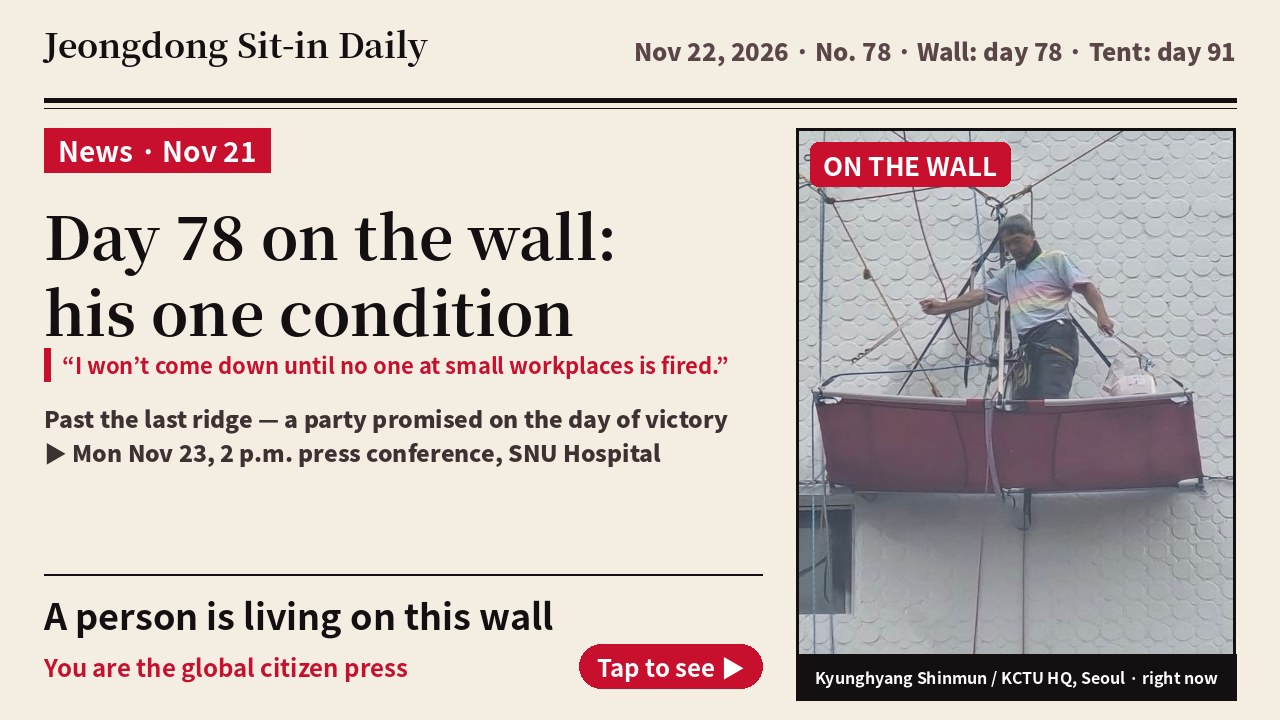
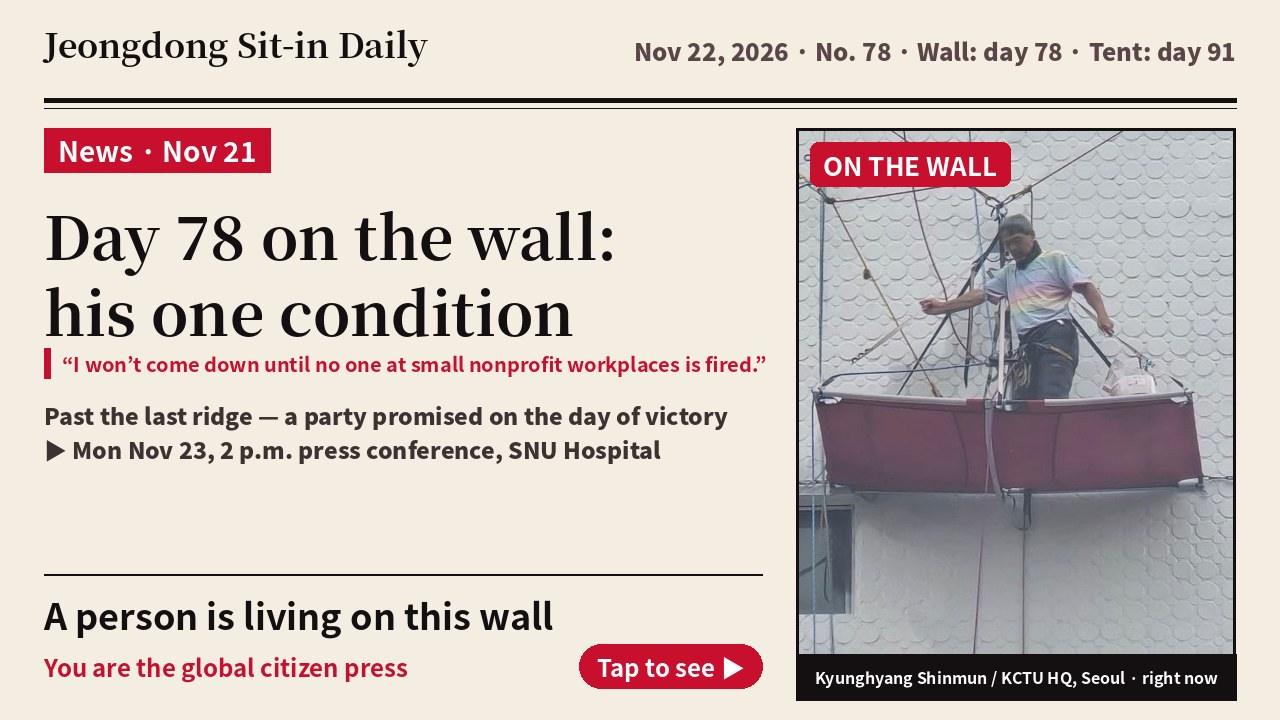
11.21 일지 한국어 보강 재반영, '비영리 5인 미만'으로 수정, 썸네일 재생성
Claude-Session: https://claude.ai/code/session_01Tz8GkWvPmrVzZC7uufwenE

Changed region(s): [[0.0312, 0.55, 0.5625, 0.6417], [0.0312, 0.4889, 0.5938, 0.5194]]

diff --git a/index.html b/index.html
@@ -2,15 +2,15 @@
 <html lang="ko"><head><meta charset="utf-8">
 <title>이 건물 외벽에 사람이 있습니다 | 정동 고공 외줄 밧줄농성</title>
 <meta name="viewport" content="width=device-width,initial-scale=1,viewport-fit=cover">
-<meta name="description" content="[11.22 소식] (11.21) 오후 2시 여의도 국회의사당 앞 ‘일제강제동원 피해자 문제 해결 촉구 100만인 서명운동’ 공대위 연대(김ㅇㅇ, 전태삼, 송ㅇㅇ, 함계남) / 외벽 고공농성 밥올림(이ㅇㅇ, 류승완) / 저녁 7시 정기모임(이ㅇㅇ, 송ㅇㅇ, 전태삼, 김ㅇㅇ, 함계남, 이ㅇㅇ, 김ㅇㅇ): 모임 전 인천 계양구에서 투쟁 중인 김ㅇㅇ·임ㅇㅇ 부부(윤석열 퇴진 촛불 이후 공대위 문화제에 함께해 온 분들)가 찾아와 투쟁 상황을 나누고 소형 충전등 3개, 손난로 20개, 피켓 9장, 깃발과 깃대를 기증해 주셨습니다 / 23일 서울대병원 기자회견 준비: 사회 유상석, 참석자 모두 발언, 현수막·피켓·전단지·앰프 준비 / 교섭 대응: 외벽의 양규서 동지는 “민주노총에서 5인 미만 사업장에 대해 해고하는 일이 없도록 반드시 합의해야 내려올 수 있다”고 밝혔습니다. 기자회견 뒤 교섭 대응과 투쟁 계획을 다시 논의합니다 / 겨울로 들어선 날씨, 이제 8부 능선을 넘었습니다. 가장 적은 인원으로 가장 센 힘을 지닌 우리가 이기지 못할 이유가 없습니다. 첫발을 내딛는 신입 조합원의 눈으로, ‘적어도 민주노총이 이래서는 안 된다’는 시민의 눈으로 한 걸음 더 내딛습니다. 승리하고 내려오는 날, 장수회관 할머니가 파티를 열어 주신다고 합니다. / 특종: 집단사직 종용 녹취록 공개 · 여러분이 글로벌 시민 언론사입니다">
+<meta name="description" content="[11.22 소식] (11.21) 오후 2시 여의도 국회의사당 앞 ‘일제강제동원 피해자 문제 해결 촉구 100만인 서명운동’ 공대위 연대(김ㅇㅇ, 전태삼, 송ㅇㅇ, 함계남) / 외벽 고공농성 밥올림(이ㅇㅇ, 류승완) / 저녁 7시 정기모임(이ㅇㅇ, 송ㅇㅇ, 전태삼, 김ㅇㅇ, 함계남, 이ㅇㅇ, 김ㅇㅇ): 모임 전 인천 계양구에서 투쟁 중인 김ㅇㅇ·임ㅇㅇ 부부(윤석열 퇴진 촛불 이후 공대위 문화제에 함께해 온 분들)가 찾아와 투쟁 상황을 나누고 소형 충전등 3개, 손난로 20개, 피켓 9장, 깃발(소 2장·대 1장)과 깃대를 기증해 주셨습니다 / 안건 1. 23일 서울대병원 기자회견: 사회 유상석, 참석자 모두 발언. 현수막·피켓·전단지·앰프를 준비하고, 회견 뒤 기자회견문과 언론 보도 내용을 정리합니다. 현재 참석 확인 8명(유상석, 함계남, 전태삼 외 5명) / 안건 2. 교섭 대응: 교섭에서는 허를 찌르는 발언과 ‘절대 물러서지 않겠구나’ 하는 강한 느낌을 줘야 한다는 데 뜻을 모았습니다. 외벽의 양규서 동지는 “민주노총에서 비영리 5인 미만 사업장에 대해 해고하는 일이 없도록 반드시 합의해야 내려올 수 있다”고 밝혔습니다. 월요일 기자회견 뒤 교섭 대응과 투쟁 계획·일정을 다시 논의합니다 / 겨울로 들어선 날씨입니다. 조합원들과 투쟁하다 모두 힘들어할 때면 “8부 능선을 올랐으니 조금만 더 가서 정상에서 좋은 경치 보고 내려가자”며 분위기를 바꾸던 기억이 납니다. 가장 적은 인원으로 가장 센 힘을 지닌 우리가 이기지 못할 이유가 무엇이겠습니까. 세상을 바꾸려 첫발을 내딛는 신입 조합원의 눈으로, ‘적어도 민주노총이 이래서는 안 된다’는 시민의 눈으로 한 걸음을 내디뎌야 할 때입니다. 승리하고 내려오는 날, 장수회관 할머니가 파티를 열어 주신다고 합니다. — 11월 21일 천막농성장에서 / 특종: 집단사직 종용 녹취록 공개 · 여러분이 글로벌 시민 언론사입니다">
 <meta property="og:type" content="website">
 <meta property="og:site_name" content="정동 고공 외줄 밧줄농성">
 <meta property="og:title" content="이 건물 외벽에 사람이 있습니다 | 정동 고공 외줄 밧줄농성">
-<meta property="og:description" content="[11.22 소식] (11.21) 오후 2시 여의도 국회의사당 앞 ‘일제강제동원 피해자 문제 해결 촉구 100만인 서명운동’ 공대위 연대(김ㅇㅇ, 전태삼, 송ㅇㅇ, 함계남) / 외벽 고공농성 밥올림(이ㅇㅇ, 류승완) / 저녁 7시 정기모임(이ㅇㅇ, 송ㅇㅇ, 전태삼, 김ㅇㅇ, 함계남, 이ㅇㅇ, 김ㅇㅇ): 모임 전 인천 계양구에서 투쟁 중인 김ㅇㅇ·임ㅇㅇ 부부(윤석열 퇴진 촛불 이후 공대위 문화제에 함께해 온 분들)가 찾아와 투쟁 상황을 나누고 소형 충전등 3개, 손난로 20개, 피켓 9장, 깃발과 깃대를 기증해 주셨습니다 / 23일 서울대병원 기자회견 준비: 사회 유상석, 참석자 모두 발언, 현수막·피켓·전단지·앰프 준비 / 교섭 대응: 외벽의 양규서 동지는 “민주노총에서 5인 미만 사업장에 대해 해고하는 일이 없도록 반드시 합의해야 내려올 수 있다”고 밝혔습니다. 기자회견 뒤 교섭 대응과 투쟁 계획을 다시 논의합니다 / 겨울로 들어선 날씨, 이제 8부 능선을 넘었습니다. 가장 적은 인원으로 가장 센 힘을 지닌 우리가 이기지 못할 이유가 없습니다. 첫발을 내딛는 신입 조합원의 눈으로, ‘적어도 민주노총이 이래서는 안 된다’는 시민의 눈으로 한 걸음 더 내딛습니다. 승리하고 내려오는 날, 장수회관 할머니가 파티를 열어 주신다고 합니다. / 특종: 집단사직 종용 녹취록 공개 · 여러분이 글로벌 시민 언론사입니다">
-<meta property="og:image" content="https://yky1234x.github.io/jeongdong/share.jpg?v=202611221850">
+<meta property="og:description" content="[11.22 소식] (11.21) 오후 2시 여의도 국회의사당 앞 ‘일제강제동원 피해자 문제 해결 촉구 100만인 서명운동’ 공대위 연대(김ㅇㅇ, 전태삼, 송ㅇㅇ, 함계남) / 외벽 고공농성 밥올림(이ㅇㅇ, 류승완) / 저녁 7시 정기모임(이ㅇㅇ, 송ㅇㅇ, 전태삼, 김ㅇㅇ, 함계남, 이ㅇㅇ, 김ㅇㅇ): 모임 전 인천 계양구에서 투쟁 중인 김ㅇㅇ·임ㅇㅇ 부부(윤석열 퇴진 촛불 이후 공대위 문화제에 함께해 온 분들)가 찾아와 투쟁 상황을 나누고 소형 충전등 3개, 손난로 20개, 피켓 9장, 깃발(소 2장·대 1장)과 깃대를 기증해 주셨습니다 / 안건 1. 23일 서울대병원 기자회견: 사회 유상석, 참석자 모두 발언. 현수막·피켓·전단지·앰프를 준비하고, 회견 뒤 기자회견문과 언론 보도 내용을 정리합니다. 현재 참석 확인 8명(유상석, 함계남, 전태삼 외 5명) / 안건 2. 교섭 대응: 교섭에서는 허를 찌르는 발언과 ‘절대 물러서지 않겠구나’ 하는 강한 느낌을 줘야 한다는 데 뜻을 모았습니다. 외벽의 양규서 동지는 “민주노총에서 비영리 5인 미만 사업장에 대해 해고하는 일이 없도록 반드시 합의해야 내려올 수 있다”고 밝혔습니다. 월요일 기자회견 뒤 교섭 대응과 투쟁 계획·일정을 다시 논의합니다 / 겨울로 들어선 날씨입니다. 조합원들과 투쟁하다 모두 힘들어할 때면 “8부 능선을 올랐으니 조금만 더 가서 정상에서 좋은 경치 보고 내려가자”며 분위기를 바꾸던 기억이 납니다. 가장 적은 인원으로 가장 센 힘을 지닌 우리가 이기지 못할 이유가 무엇이겠습니까. 세상을 바꾸려 첫발을 내딛는 신입 조합원의 눈으로, ‘적어도 민주노총이 이래서는 안 된다’는 시민의 눈으로 한 걸음을 내디뎌야 할 때입니다. 승리하고 내려오는 날, 장수회관 할머니가 파티를 열어 주신다고 합니다. — 11월 21일 천막농성장에서 / 특종: 집단사직 종용 녹취록 공개 · 여러분이 글로벌 시민 언론사입니다">
+<meta property="og:image" content="https://yky1234x.github.io/jeongdong/share.jpg?v=202611221851">
 <meta property="og:image:width" content="1280"><meta property="og:image:height" content="720">
 <meta name="twitter:card" content="summary_large_image">
-<meta name="twitter:image" content="https://yky1234x.github.io/jeongdong/share.jpg?v=202611221850">
+<meta name="twitter:image" content="https://yky1234x.github.io/jeongdong/share.jpg?v=202611221851">
 <style>:root{color-scheme:light;padding-top:env(safe-area-inset-top,0px);padding-bottom:env(safe-area-inset-bottom,0px)}body{margin:0;font-family:system-ui,-apple-system,"Apple SD Gothic Neo","Malgun Gothic",sans-serif;font-size:14px}img{max-width:100%}[hidden]{display:none!important}</style>
 </head><body>
 <link rel="preconnect" href="https://fonts.googleapis.com">
@@ -195,7 +195,7 @@ footer strong{color:var(--fg);display:block;font-size:15px}
 <header class="band">
   <div class="wrap">
     <div class="loc" id="loc">서울 정동 경향신문사 외벽 고공 외줄 밧줄농성</div>
-    <div class="upd" data-upd>최종 업데이트 2026. 11. 22. 18:55</div>
+    <div class="upd" data-upd>최종 업데이트 2026. 11. 22. 19:00</div>
     <div class="langs" role="group" aria-label="Language">
       <button type="button" id="b-ko" data-l="ko" aria-pressed="true">한국어</button>
       <button type="button" id="b-en" data-l="en" aria-pressed="false">English</button>
@@ -341,7 +341,7 @@ footer strong{color:var(--fg);display:block;font-size:15px}
   }
   // 투쟁 일지: add one entry per event {d:"YYYY-MM-DD", ko, en, zh}
   var LOG=[
-    {d:"2026-11-21",ko:"오후 2시 여의도 국회의사당 앞 ‘일제강제동원 피해자 문제 해결 촉구 100만인 서명운동’ 공대위 연대(김ㅇㅇ, 전태삼, 송ㅇㅇ, 함계남) / 외벽 고공농성 밥올림(이ㅇㅇ, 류승완) / 저녁 7시 정기모임(이ㅇㅇ, 송ㅇㅇ, 전태삼, 김ㅇㅇ, 함계남, 이ㅇㅇ, 김ㅇㅇ): 모임 전 인천 계양구에서 투쟁 중인 김ㅇㅇ·임ㅇㅇ 부부(윤석열 퇴진 촛불 이후 공대위 문화제에 함께해 온 분들)가 찾아와 투쟁 상황을 나누고 소형 충전등 3개, 손난로 20개, 피켓 9장, 깃발과 깃대를 기증해 주셨습니다 / 23일 서울대병원 기자회견 준비: 사회 유상석, 참석자 모두 발언, 현수막·피켓·전단지·앰프 준비 / 교섭 대응: 외벽의 양규서 동지는 “민주노총에서 5인 미만 사업장에 대해 해고하는 일이 없도록 반드시 합의해야 내려올 수 있다”고 밝혔습니다. 기자회견 뒤 교섭 대응과 투쟁 계획을 다시 논의합니다 / 겨울로 들어선 날씨, 이제 8부 능선을 넘었습니다. 가장 적은 인원으로 가장 센 힘을 지닌 우리가 이기지 못할 이유가 없습니다. 첫발을 내딛는 신입 조합원의 눈으로, ‘적어도 민주노총이 이래서는 안 된다’는 시민의 눈으로 한 걸음 더 내딛습니다. 승리하고 내려오는 날, 장수회관 할머니가 파티를 열어 주신다고 합니다.",en:"2 p.m. joint-committee solidarity with the million-signature campaign to resolve the issue of victims of Japanese forced mobilization, in front of the National Assembly, Yeouido (Kim OO, Jeon Tae-sam, Song OO, Ham Gye-nam) / Meals sent up to the wall sit-in (Lee OO, Ryu Seung-wan) / 7 p.m. regular meeting (seven members): before the meeting, Kim OO and Lim OO, a couple waging their own struggle in Gyeyang-gu, Incheon, who have joined the joint committee’s cultural rallies since the candlelight protests, shared their situation and donated 3 small rechargeable lights, 20 hand warmers, 9 pickets, three flags (two small, one large) and a pole / Item 1, Monday’s press conference at Seoul National University Hospital: Yoo Sang-seok will chair and every participant will speak. Banners, pickets, leaflets and an amplifier are ready; afterwards we will compile the statement and the press coverage. Eight people have confirmed so far (Yoo Sang-seok, Ham Gye-nam, Jeon Tae-sam and five others) / Item 2, negotiations: we agreed that at the table we must make pointed remarks that cut to the heart of the matter and leave no doubt that we will never back down. Yang Gyu-seo, on the wall, said, “I can come down only when the KCTU firmly agrees that no one at its workplaces with fewer than five employees will be dismissed.” Negotiation strategy, plans and schedule will be discussed again after Monday’s press conference / Winter has arrived. In past struggles, when members grew tired, I used to lift the mood by saying, “We have climbed past the last ridge; just a little further, and we can enjoy the view from the summit before we head down.” With the fewest people and the strongest resolve, what reason could there be that we cannot win? It is time to take the next step through the eyes of a new union member taking a first step to change the world, and of citizens who say the KCTU, at the very least, should not act like this. On the day we come down in victory, the grandmother at Jangsu Hall has promised to throw a party. — From the tent, November 21",zh:"下午2点 汝矣岛国会议事堂前，共同对策委员会声援“敦促解决日本强征劳工受害者问题百万人签名运动”（김ㅇㅇ、全泰三、송ㅇㅇ、Ham Gye-nam） / 为外墙高空静坐送饭（이ㅇㅇ、柳承完） / 晚上7点例会（7人参加）：会前，在仁川桂阳区进行抗争、自烛光集会以来一直参加共同对策委员会文化祭的김ㅇㅇ、임ㅇㅇ夫妇前来分享抗争情况，并捐赠小型充电灯3个、暖手宝20个、标语牌9块、旗帜3面（小2面、大1面）和旗杆 / 议题1：23日首尔大学医院记者会，由유상석（Yoo Sang-seok）主持，所有参加者发言；准备横幅、标语牌、传单和扩音器，会后整理记者会声明和媒体报道。目前确认参加8人（유상석、Ham Gye-nam、全泰三等） / 议题2：交涉应对。大家一致认为，交涉时要说出一针见血的话，让对方强烈感到“我们绝不会退让”。外墙上的Yang Gyu-seo同志表示：“只有民主劳总明确承诺，其5人以下单位不再解雇任何人，我才能下来。”周一记者会后将重新讨论交涉应对、斗争计划和日程 / 天气已进入冬天。想起过去和会员们一起斗争、大家疲惫时，我常说“已经爬过八成山脊，再走一点就能登顶看美景再下山”，以此转换气氛。人数最少、力量最强的我们，有什么理由赢不了？现在是时候用想要改变世界、迈出第一步的新会员的眼光，用“民主劳总至少不该这样”的市民的眼光，迈出一步了。胜利下来的那天，长寿会馆的奶奶说要为我们开派对。——11月21日，于帐篷静坐现场",plan:{ko:"▶ 11.23(월) 오후 2시 서울대병원(혜화역 3번 출구, 1시 30분 집결) ‘사용자 민주노총 공공운수노조 의료연대본부 서울지부 규탄 기자회견’ — 사회 유상석, 참석자 모두 발언",en:"▶ Mon, Nov 23: 2 p.m. press conference at Seoul National University Hospital (Hyehwa Station exit 3; gather at 1:30 p.m.) denouncing the employer, the Seoul branch of the KPTU Medical Solidarity Division (KCTU) — chaired by Yoo Sang-seok, with every participant speaking",zh:"▶ 11月23日（周一）下午2点 首尔大学医院（惠化站3号出口，1点30分集合）“谴责雇主——民主劳总公共运输工会医疗联带本部首尔支部”记者会——由유상석（Yoo Sang-seok）主持，所有参加者发言"},imgs:[["log_1121_1.jpg", {ko: "비닐로 감싼 천막농성장과 천막농성 91일·고공농성 78일 일수판(22일 아침)", en: "The plastic-wrapped tent and day board: tent 91, wall 78 (morning of Nov 22)", zh: "包着塑料布的帐篷与天数牌：帐篷91天、高空78天（22日早晨）"}], ["log_1121_2.jpg", {ko: "여의도 국회의사당 앞 연대 집회 현장", en: "The solidarity rally in front of the National Assembly, Yeouido", zh: "汝矣岛国会议事堂前的声援集会现场"}], ["log_1121_3.jpg", {ko: "천막농성장에서 ‘집단사직종용 해고는 살인이다’ 피켓을 든 모습", en: "In the tent, holding the picket “Dismissal by collective pressure to resign is murder”", zh: "在帐篷里举着“集体逼辞的解雇就是杀人”标语牌"}]]},
+    {d:"2026-11-21",ko:"오후 2시 여의도 국회의사당 앞 ‘일제강제동원 피해자 문제 해결 촉구 100만인 서명운동’ 공대위 연대(김ㅇㅇ, 전태삼, 송ㅇㅇ, 함계남) / 외벽 고공농성 밥올림(이ㅇㅇ, 류승완) / 저녁 7시 정기모임(이ㅇㅇ, 송ㅇㅇ, 전태삼, 김ㅇㅇ, 함계남, 이ㅇㅇ, 김ㅇㅇ): 모임 전 인천 계양구에서 투쟁 중인 김ㅇㅇ·임ㅇㅇ 부부(윤석열 퇴진 촛불 이후 공대위 문화제에 함께해 온 분들)가 찾아와 투쟁 상황을 나누고 소형 충전등 3개, 손난로 20개, 피켓 9장, 깃발(소 2장·대 1장)과 깃대를 기증해 주셨습니다 / 안건 1. 23일 서울대병원 기자회견: 사회 유상석, 참석자 모두 발언. 현수막·피켓·전단지·앰프를 준비하고, 회견 뒤 기자회견문과 언론 보도 내용을 정리합니다. 현재 참석 확인 8명(유상석, 함계남, 전태삼 외 5명) / 안건 2. 교섭 대응: 교섭에서는 허를 찌르는 발언과 ‘절대 물러서지 않겠구나’ 하는 강한 느낌을 줘야 한다는 데 뜻을 모았습니다. 외벽의 양규서 동지는 “민주노총에서 비영리 5인 미만 사업장에 대해 해고하는 일이 없도록 반드시 합의해야 내려올 수 있다”고 밝혔습니다. 월요일 기자회견 뒤 교섭 대응과 투쟁 계획·일정을 다시 논의합니다 / 겨울로 들어선 날씨입니다. 조합원들과 투쟁하다 모두 힘들어할 때면 “8부 능선을 올랐으니 조금만 더 가서 정상에서 좋은 경치 보고 내려가자”며 분위기를 바꾸던 기억이 납니다. 가장 적은 인원으로 가장 센 힘을 지닌 우리가 이기지 못할 이유가 무엇이겠습니까. 세상을 바꾸려 첫발을 내딛는 신입 조합원의 눈으로, ‘적어도 민주노총이 이래서는 안 된다’는 시민의 눈으로 한 걸음을 내디뎌야 할 때입니다. 승리하고 내려오는 날, 장수회관 할머니가 파티를 열어 주신다고 합니다. — 11월 21일 천막농성장에서",en:"2 p.m. joint-committee solidarity with the million-signature campaign to resolve the issue of victims of Japanese forced mobilization, in front of the National Assembly, Yeouido (Kim OO, Jeon Tae-sam, Song OO, Ham Gye-nam) / Meals sent up to the wall sit-in (Lee OO, Ryu Seung-wan) / 7 p.m. regular meeting (seven members): before the meeting, Kim OO and Lim OO, a couple waging their own struggle in Gyeyang-gu, Incheon, who have joined the joint committee’s cultural rallies since the candlelight protests, shared their situation and donated 3 small rechargeable lights, 20 hand warmers, 9 pickets, three flags (two small, one large) and a pole / Item 1, Monday’s press conference at Seoul National University Hospital: Yoo Sang-seok will chair and every participant will speak. Banners, pickets, leaflets and an amplifier are ready; afterwards we will compile the statement and the press coverage. Eight people have confirmed so far (Yoo Sang-seok, Ham Gye-nam, Jeon Tae-sam and five others) / Item 2, negotiations: we agreed that at the table we must make pointed remarks that cut to the heart of the matter and leave no doubt that we will never back down. Yang Gyu-seo, on the wall, said, “I can come down only when the KCTU firmly agrees that no one at its nonprofit workplaces with fewer than five employees will be dismissed.” Negotiation strategy, plans and schedule will be discussed again after Monday’s press conference / Winter has arrived. In past struggles, when members grew tired, I used to lift the mood by saying, “We have climbed past the last ridge; just a little further, and we can enjoy the view from the summit before we head down.” With the fewest people and the strongest resolve, what reason could there be that we cannot win? It is time to take the next step through the eyes of a new union member taking a first step to change the world, and of citizens who say the KCTU, at the very least, should not act like this. On the day we come down in victory, the grandmother at Jangsu Hall has promised to throw a party. — From the tent, November 21",zh:"下午2点 汝矣岛国会议事堂前，共同对策委员会声援“敦促解决日本强征劳工受害者问题百万人签名运动”（김ㅇㅇ、全泰三、송ㅇㅇ、Ham Gye-nam） / 为外墙高空静坐送饭（이ㅇㅇ、柳承完） / 晚上7点例会（7人参加）：会前，在仁川桂阳区进行抗争、自烛光集会以来一直参加共同对策委员会文化祭的김ㅇㅇ、임ㅇㅇ夫妇前来分享抗争情况，并捐赠小型充电灯3个、暖手宝20个、标语牌9块、旗帜3面（小2面、大1面）和旗杆 / 议题1：23日首尔大学医院记者会，由유상석（Yoo Sang-seok）主持，所有参加者发言；准备横幅、标语牌、传单和扩音器，会后整理记者会声明和媒体报道。目前确认参加8人（유상석、Ham Gye-nam、全泰三等） / 议题2：交涉应对。大家一致认为，交涉时要说出一针见血的话，让对方强烈感到“我们绝不会退让”。外墙上的Yang Gyu-seo同志表示：“只有民主劳总明确承诺，其非营利5人以下单位不再解雇任何人，我才能下来。”周一记者会后将重新讨论交涉应对、斗争计划和日程 / 天气已进入冬天。想起过去和会员们一起斗争、大家疲惫时，我常说“已经爬过八成山脊，再走一点就能登顶看美景再下山”，以此转换气氛。人数最少、力量最强的我们，有什么理由赢不了？现在是时候用想要改变世界、迈出第一步的新会员的眼光，用“民主劳总至少不该这样”的市民的眼光，迈出一步了。胜利下来的那天，长寿会馆的奶奶说要为我们开派对。——11月21日，于帐篷静坐现场",plan:{ko:"▶ 11.23(월) 오후 2시 서울대병원(혜화역 3번 출구, 1시 30분 집결) ‘사용자 민주노총 공공운수노조 의료연대본부 서울지부 규탄 기자회견’ — 사회 유상석, 참석자 모두 발언",en:"▶ Mon, Nov 23: 2 p.m. press conference at Seoul National University Hospital (Hyehwa Station exit 3; gather at 1:30 p.m.) denouncing the employer, the Seoul branch of the KPTU Medical Solidarity Division (KCTU) — chaired by Yoo Sang-seok, with every participant speaking",zh:"▶ 11月23日（周一）下午2点 首尔大学医院（惠化站3号出口，1点30分集合）“谴责雇主——民主劳总公共运输工会医疗联带本部首尔支部”记者会——由유상석（Yoo Sang-seok）主持，所有参加者发言"},imgs:[["log_1121_1.jpg", {ko: "비닐로 감싼 천막농성장과 천막농성 91일·고공농성 78일 일수판(22일 아침)", en: "The plastic-wrapped tent and day board: tent 91, wall 78 (morning of Nov 22)", zh: "包着塑料布的帐篷与天数牌：帐篷91天、高空78天（22日早晨）"}], ["log_1121_2.jpg", {ko: "여의도 국회의사당 앞 연대 집회 현장", en: "The solidarity rally in front of the National Assembly, Yeouido", zh: "汝矣岛国会议事堂前的声援集会现场"}], ["log_1121_3.jpg", {ko: "천막농성장에서 ‘집단사직종용 해고는 살인이다’ 피켓을 든 모습", en: "In the tent, holding the picket “Dismissal by collective pressure to resign is murder”", zh: "在帐篷里举着“集体逼辞的解雇就是杀人”标语牌"}]]},
     {d:"2026-11-20",ko:"오전 8시 서울고용노동청 앞 연대(함계남) / 오전 11시 긴급 대책위 회의(류승완, 유상석, 김ㅇㅇ, 이ㅇㅇ, 함계남) / 11시 40분경 총연맹 대협실장에게서 ‘진상규명위원회 결과에 따라 후속조치를 협의한다’는 문구가 추가된 제안이 왔습니다 / 오후 2시 13층 면담(사측: 대협실장·조직실장, 공대위: 류승완 대표 등 5명): 모든 것을 내려놓고 진상규명위원회와 5인 미만 문제, 두 개의 합의안을 제시한 이유를 자료(산재 승인서, 직장 내 괴롭힘 진정 서류, 수당 지급요청 내용증명, 2019~2022 투쟁 사진 등)와 함께 설명했습니다. 사측은 5인 미만 문제는 진상규명위 조사를 거쳐 권고·조직 징계 등 후속조치로 하면 된다고 했습니다. 함계남 동지는 과거 규율위원회에 직장 내 괴롭힘을 진정했지만 아무 조치가 없었다고 지적했고, 류승완 대표는 노동조합 규칙에 따른 실효성 있는 조사와 후속조치 방안이 있는지 물었습니다. 이후 노동조합 규칙을 전달받았고, 함계남 동지는 면담 자료를 집행위원장과 비상대책위원장에게 공유해 달라고 요청했습니다 / 바람 불고 추운 오늘도 천막에 와서 할 일을 찾아 주신 동지들, 모두 애쓰셨습니다.",img:"log_1120_1.jpg",ia:{ko:"비닐로 감싸고 끈으로 묶은 천막농성장, 천막농성 89일·고공농성 76일 일수판",en:"The plastic-wrapped tent with the day board: tent 89, wall 76",zh:"盖着塑料布、用绳子捆紧的帐篷和天数牌：帐篷89天、高空76天"},en:"8 a.m. solidarity in front of the Seoul Regional Employment and Labor Office (Ham Gye-nam) / 11 a.m. emergency committee meeting (Ryu Seung-wan, Yoo Sang-seok, Kim OO, Lee OO, Ham Gye-nam) / Around 11:40 a.m. the KCTU confederation’s external-affairs director sent a proposal with an added line: “follow-up measures will be discussed based on the fact-finding committee’s results” / 2 p.m. meeting on the 13th floor (KCTU: external-affairs and organizing directors; joint committee: chair Ryu Seung-wan and four others). We explained, with documents (industrial-accident approvals, the workplace-harassment complaint, a certified demand for unpaid allowances, photos of the 2019–2022 struggles and more), why we set everything else aside and proposed two agreements: a fact-finding committee and the under-five-employees issue. The KCTU side said the under-five issue can go through the fact-finding committee’s investigation, followed by recommendations or organizational discipline. Ham Gye-nam pointed out that she had once reported workplace harassment to the disciplinary committee and nothing was done; chair Ryu asked whether there is any effective way to investigate and follow up under the union’s rules. We later received the union rules, and Ham Gye-nam asked that the documents be shared with the executive chair and the emergency committee chair / To the comrades who came to the tent again on this cold, windy day looking for something to help with — thank you.",zh:"上午8点在首尔地方雇佣劳动厅前声援（Ham Gye-nam） / 上午11点召开紧急对策委员会会议（柳承完、유상석（Yoo Sang-seok）、김ㅇㅇ、이ㅇㅇ、Ham Gye-nam） / 11点40分左右，民主劳总总联盟对外协力室长发来提案，其中增加了“根据真相调查委员会的结果协商后续措施”的文字 / 下午2点在13楼面谈（资方：对外协力室长、组织室长；共同对策委员会：柳承完代表等5人）：我们附上材料（工伤认定书、职场欺凌申诉材料、要求支付津贴的内容证明、2019–2022年斗争照片等），说明了为何放下一切，提出真相调查委员会和5人以下单位问题两项协议方案。资方表示，5人以下问题可经真相调查委员会调查后，以劝告、组织处分等后续措施处理。Ham Gye-nam指出，她过去曾向纪律委员会申诉职场欺凌，却没有任何处理；柳承完代表询问是否有依据工会规则进行有效调查和后续处理的方案。之后我们收到了工会规则，Ham Gye-nam要求把面谈材料转交给执行委员长和紧急对策委员长 / 今天风大天冷，仍来到帐篷寻找能帮上忙的事的同志们，辛苦了。",plan:{ko:"▶ 11.21(토) 오후 2시 여의도 국회의사당 앞 ‘일제강제동원 피해자 문제 해결 촉구 100만인 서명운동’ 공대위 연대 / 오후 7시 천막에서 공대위 정기모임 ▶ 11.23(월) 오후 2시 서울대병원(혜화역 3번 출구) ‘사용자 민주노총 공공운수노조 의료연대본부 서울지부 규탄 기자회견’",en:"▶ Sat, Nov 21: 2 p.m. joint-committee solidarity with the million-signature campaign to resolve the issue of victims of Japanese forced mobilization, in front of the National Assembly, Yeouido / 7 p.m. regular joint-committee meeting at the tent ▶ Mon, Nov 23: 2 p.m. press conference at Seoul National University Hospital (Hyehwa Station exit 3) denouncing the employer, the Seoul branch of the KPTU Medical Solidarity Division (KCTU)",zh:"▶ 11月21日（周六）下午2点 汝矣岛国会议事堂前，声援“敦促解决日本强征劳工受害者问题百万人签名运动” / 晚上7点 在帐篷举行共同对策委员会例会 ▶ 11月23日（周一）下午2点 首尔大学医院（惠化站3号出口）“谴责雇主——民主劳总公共运输工会医疗联帯本部首尔支部”记者会"}},
     {d:"2026-11-19",ko:"사다리차 긴급 의료지원(유ㅇㅇ, 이ㅇㅇ, 전ㅇㅇ, 김ㅇㅇ, 김ㅇㅇ, 이ㅇㅇ, 김ㅇㅇ, 정ㅇㅇ, 이ㅇㅇ 동지 함께): 혈압·맥박·체온·혈당·산소포화도를 측정했습니다. 혈압이 높게 나왔지만 내과의는 긴장과 추위, 고공 환경 탓일 수 있다며 지켜보자고 합니다 / 서울고용노동청 연대 / 민주노총 중앙집행위원회에 2분 발언을 요청했으나 거절당했습니다. “75일째 고공농성인데 죽기를 기다리느냐” 항의하다 쫓겨나, 홍ㅇㅇ 비대위 집행위원장과 짧게 면담했습니다 / 정ㅇㅇ 동지 천막 보수 / 바람만큼 추위도 힘든 날, 함께해 주신 동지들께 감사드립니다.",en:"Emergency medical check by ladder truck, with nine comrades: blood pressure, pulse, temperature, blood sugar and oxygen saturation. His blood pressure was high; an internist said tension, cold and life on the wall can cause this and advised watching closely / Solidarity at the Seoul Regional Employment and Labor Office / We asked the KCTU Central Executive Committee for two minutes to speak and were refused. After protesting — “75 days on the wall. Are you waiting for him to die?” — we were pushed out, then briefly met emergency committee executive chair Hong OO / Comrade Jeong OO repaired the tent / The cold is as hard as the wind. Thank you to everyone who came.",zh:"云梯车紧急医疗支援（9名同志一同参与）：测量血压、脉搏、体温、血糖和血氧饱和度。血压偏高，内科医生表示紧张、寒冷和高空环境都可能导致，建议继续观察 / 声援首尔地方雇佣劳动厅 / 向民主劳总中央执行委员会请求发言2分钟，遭到拒绝。我们抗议“高空静坐已75天，难道要等他死吗”，随后被赶出，与紧急对策委员会执行委员长홍ㅇㅇ短暂面谈 / 정ㅇㅇ同志修补了帐篷 / 寒冷和大风一样难熬，感谢所有前来的同志们。",imgs:[["log_1119_1.jpg",{ko:"사다리차 바스켓에서 고공농성장을 살피는 구조대원",en:"A rescuer in the ladder-truck basket checking on the wall sit-in",zh:"云梯车吊篮中的救援人员查看高空静坐现场"}],["log_1119_2.jpg",{ko:"바스켓 쪽으로 손을 내미는 농성자",en:"The protester reaching out toward the basket",zh:"静坐者向吊篮伸出手"}],["log_1119_3.jpg",{ko:"외벽 농성장 바로 옆까지 다가간 사다리차",en:"The ladder truck right beside the sit-in on the wall",zh:"云梯车靠近外墙静坐现场"}],["log_1119_4.jpg",{ko:"70m 고가사다리차와 외벽 농성장",en:"The 70 m aerial platform and the wall sit-in",zh:"70米高空作业平台与外墙静坐现场"}],["log_1119_5.jpg",{ko:"경향신문사 건물 외벽까지 뻗은 사다리",en:"The ladder reaching up the Kyunghyang Shinmun building",zh:"伸向京乡新闻社大楼外墙的云梯"}],["log_1119_6.jpg",{ko:"새문안로에 선 소방 사다리차와 천막농성장",en:"The fire department ladder truck on Saemunan-ro, beside the tent sit-in",zh:"停在新门内路的消防云梯车和帐篷静坐现场"}]],plan:{ko:"▶ 11.20(금) 일정: 오전 11시 교섭 관련 긴급회의. 한 시간이 다르게 지나가는 시기의 날씨라 밀도 있는 교섭이 필요합니다",en:"▶ Fri, Nov 20: 11 a.m. emergency meeting on negotiations. With the weather turning harsher by the hour, focused, serious negotiations are needed",zh:"▶ 11月20日（周五）日程：上午11点召开有关交涉的紧急会议。天气一小时比一小时严酷，需要进行紧凑而实质的交涉"}},
     {d:"2026-11-17",ko:"국가인권위원회에 고공농성 노동자의 생명과 건강 보호를 위한 사다리차·의료지원 긴급 구제 진정 접수 / 중구 보건소장 면담: 「행정기본법」 제4조(행정의 적극적 추진)에 따라 생명과 건강 보호를 위한 적극적 행정조치 요청, 중구 보건소·국민신문고 온라인 민원 접수 / 서울고용노동청 앞 고 차진성 노동자 연대 피켓팅 / 비가 내린 늦은 저녁, 전태삼 선생님 천막 방문 / 추위와 비바람을 막으려 천막을 비닐로 덮고 끈으로 단단히 묶었습니다. 은행잎이 천막 위를 노랗게 물들였습니다.",en:"Filed an urgent petition with the National Human Rights Commission of Korea asking for a ladder truck and medical support to protect the life and health of the worker on the wall / Met the head of the Jung-gu Public Health Center and, citing Article 4 of the Framework Act on Administration (proactive administration), asked for active measures to protect life and health; filed online complaints with the health center and the national e-petition portal / Solidarity picket for the late worker Cha Jin-seong in front of the Seoul Regional Employment and Labor Office / Mr. Jeon Tae-sam visited the tent late in the evening, in the rain / The tent is now wrapped in plastic and tied down against the cold, wind and rain. Ginkgo leaves have turned the tent roof yellow.",zh:"向国家人权委员会提交紧急救济申诉，要求为高空静坐劳动者提供云梯车和医疗支援，保护其生命与健康 / 与中区保健所所长面谈，依据《行政基本法》第4条（积极推进行政原则）要求采取积极行政措施保护生命与健康，并在中区保健所及国民申闻鼓网上提交民愿 / 在首尔地方雇佣劳动厅前为已故劳动者车振成举行声援举牌 / 雨中的深夜，全泰三先生来到帐篷探望 / 为抵御寒冷和风雨，帐篷盖上塑料布并用绳子牢牢捆紧。银杏叶把帐篷顶染成了金黄色。",plan:{ko:"▶ 11.18(수) 일정: 오후 2시 국회의사당 앞 초광역특구 저지 민주노총 확대간부 결의대회 참석 / 중구 보건소 문서 민원 제출",en:"▶ Wed, Nov 18: 2 p.m. KCTU expanded cadre rally against the mega-regional special zones, in front of the National Assembly / Submitting a written complaint to the Jung-gu Public Health Center",zh:"▶ 11月18日（周三）日程：下午2点出席国会议事堂前民主劳总反对超广域特区扩大干部决议大会 / 向中区保健所提交书面民愿"},img:"log_1117_1.jpg",ia:{ko:"비닐로 덮고 끈으로 묶은 천막농성장과 천막농성 86일·고공농성 73일 일수판",en:"The plastic-wrapped tent with the day board: tent 86, wall 73",zh:"盖着塑料布、用绳子捆紧的帐篷和天数牌：帐篷86天、高空73天"},vid:"log_1117_v.mp4",vp:"log_1117_vp.jpg",va:{ko:"영상: 경향신문사 외벽, 바람에 펄럭이는 고공농성장",en:"Video: the wall sit-in on the Kyunghyang Shinmun building, flapping in the wind",zh:"视频：京乡新闻社外墙上，在风中飘动的高空静坐现场"}},
